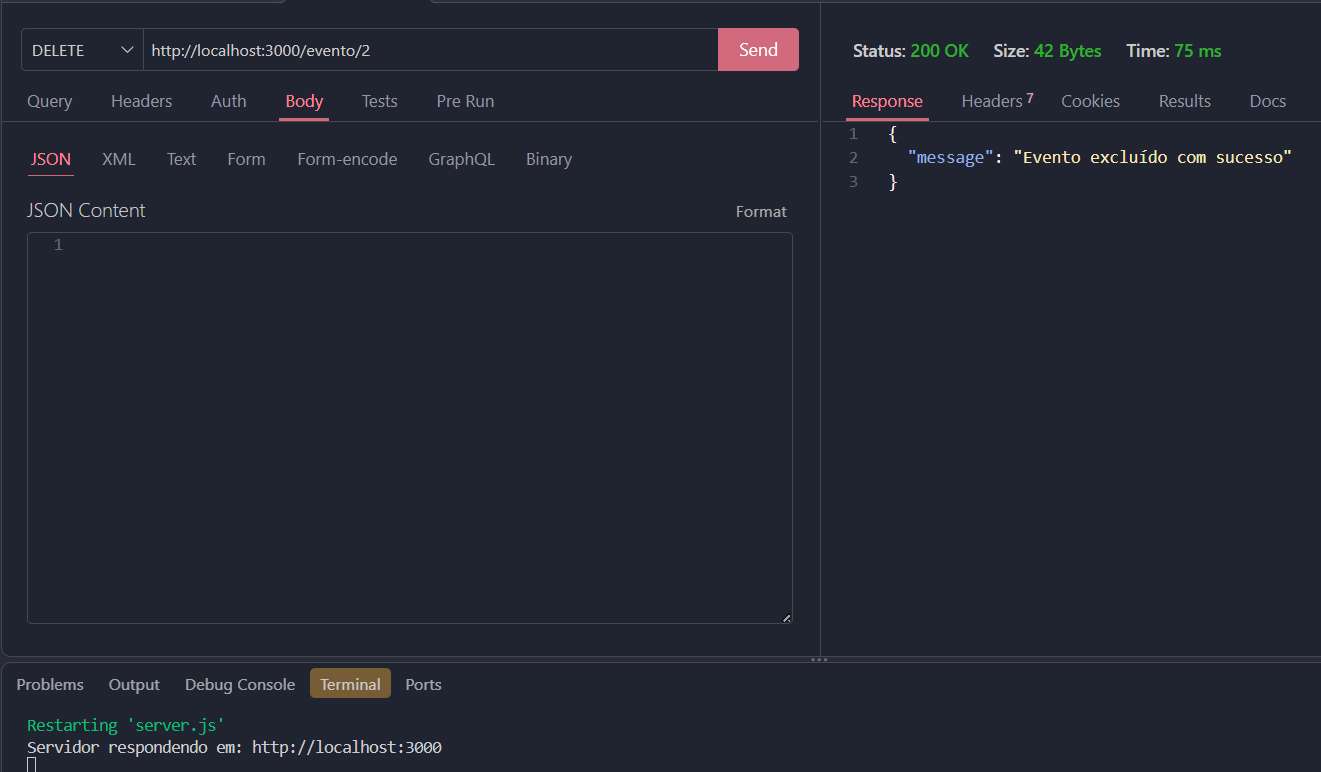
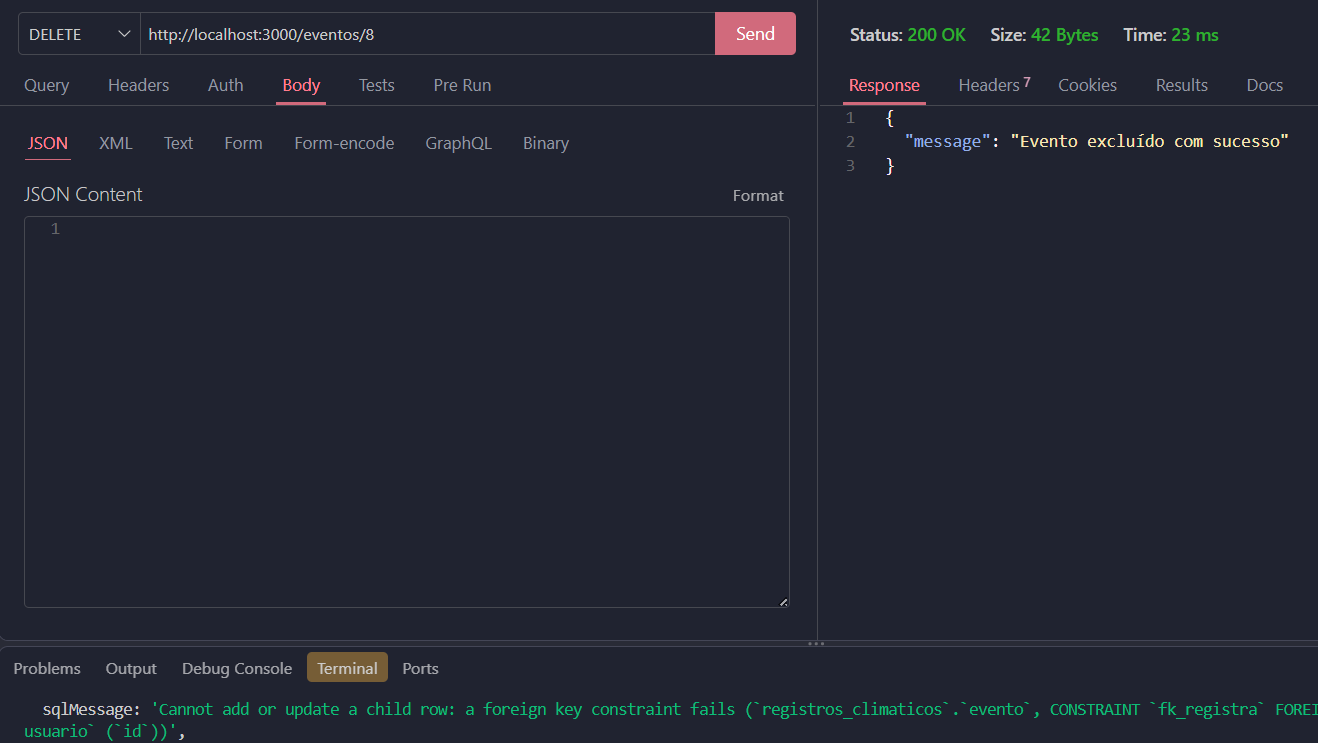
up

diff --git a/src/routes.js b/src/routes.js
@@ -1,5 +1,6 @@
 const express = require("express")
 const router = express.Router()
+
 const usuario = require('./controllers/usuario')
 const evento = require('./controllers/evento')
 
@@ -12,7 +13,7 @@ router.get('/usuarios', usuario.listar)
 router.post('/usuarios', usuario.cadastrar)
 router.get('/eventos', evento.listar)
 router.post('/eventos', evento.cadastrar)
-router.delete('/evento/:id', evento.excluir)
-router.delete('/usuario/:id', usuario.excluir)
+router.delete('/eventos/:id', evento.excluir)
+router.delete('/usuarios/:id', usuario.excluir)
 
 module.exports = router

diff --git a/src/controllers/usuario.js b/src/controllers/usuario.js
@@ -1,5 +1,4 @@
 const con = require('../db')
-const { excluir } = require('./evento')
 
 const cadastrar = (req, res) => {
     const { nome, email, senha } = req.body
@@ -33,7 +32,7 @@ const listar = (req, res) => {
     })
 }
 
-const usuario = (req, res) => {
+const excluir = (req, res) => {
     const { id } = req.params
 
     try {
